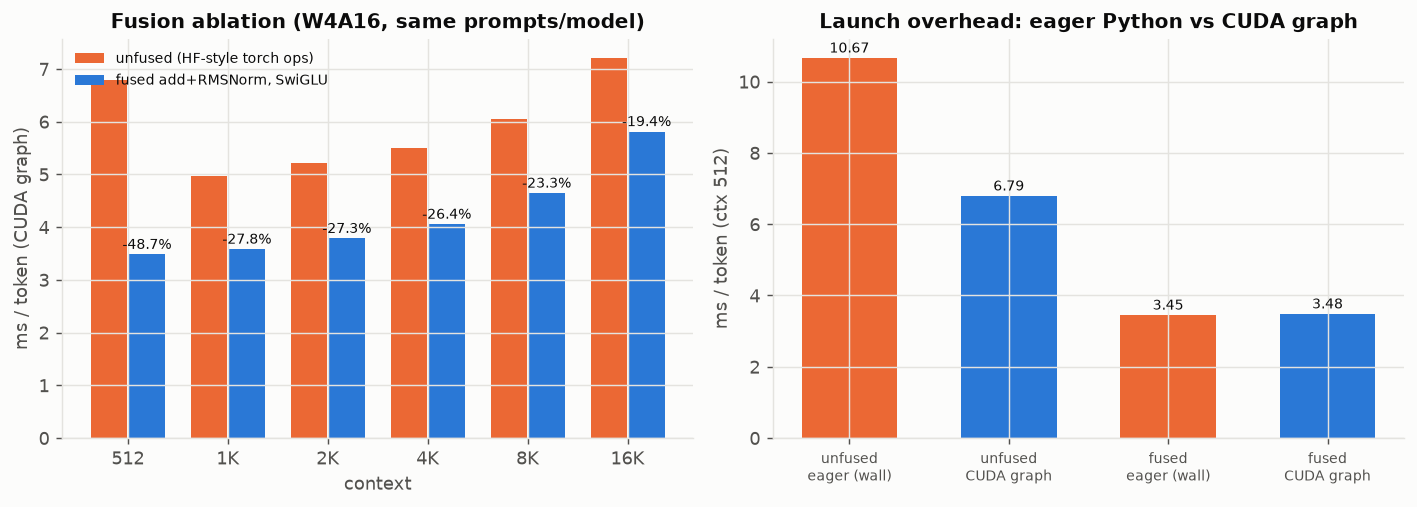
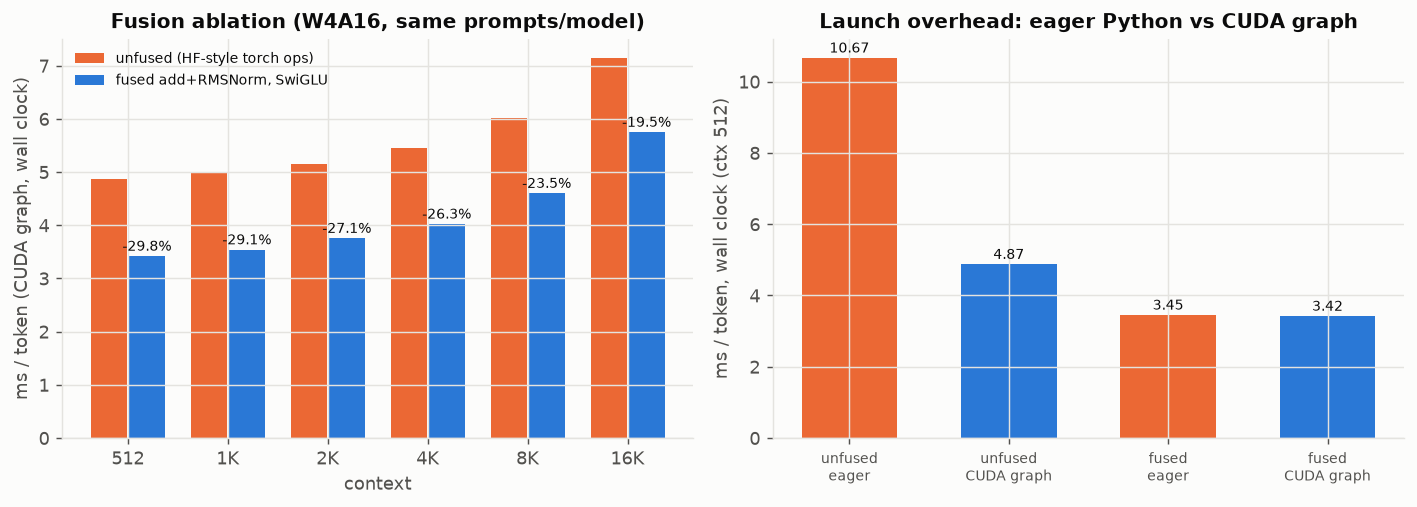
Fusion/graph plot wall-to-wall in both panels; RESULTS quotes both profile and wall numbers

diff --git a/scripts/plot_all.py b/scripts/plot_all.py
@@ -184,27 +184,30 @@ def plot_fusion(r):
     ctxs = [x["ctx"] for x in sp["rt_int4_g128"]]
     fig, (a1, a2) = plt.subplots(1, 2, figsize=(11, 4))
     w = 0.38
-    fu = [x["median_us"] / 1e3 for x in sp["rt_int4_g128"]]
-    un = [next(y["median_us"] for y in sp["rt_int4_g128_unfused"] if y["ctx"] == c) / 1e3 for c in ctxs]
+    # wall clock in both panels: the event-timed median of a throttled loop can sit far from its wall time (e2efinal
+    # unfused@512: 6.79 ms median vs 4.87 ms wall), and eager can only be compared to graph wall-to-wall
+    wall = lambda x: x.get("wall_us", x["median_us"]) / 1e3
+    fu = [wall(x) for x in sp["rt_int4_g128"]]
+    un = [wall(next(y for y in sp["rt_int4_g128_unfused"] if y["ctx"] == c)) for c in ctxs]
     xs = np.arange(len(ctxs))
     a1.bar(xs - w / 2, un, w * 0.95, color=C[1], label="unfused (HF-style torch ops)")
     a1.bar(xs + w / 2, fu, w * 0.95, color=C[0], label="fused add+RMSNorm, SwiGLU")
     for i in range(len(ctxs)):
         a1.annotate(f"-{100 * (1 - fu[i] / un[i]):.1f}%", (xs[i] + w / 2, fu[i]), xytext=(0, 3), textcoords="offset points", ha="center", fontsize=8)
     a1.set_xticks(xs); a1.set_xticklabels([ctx_label(c) for c in ctxs]); a1.set_xlabel("context")
-    a1.set_ylabel("ms / token (CUDA graph)"); a1.set_title("Fusion ablation (W4A16, same prompts/model)"); a1.legend(fontsize=8, loc="upper left")
+    a1.set_ylabel("ms / token (CUDA graph, wall clock)"); a1.set_title("Fusion ablation (W4A16, same prompts/model)"); a1.legend(fontsize=8, loc="upper left")
     labels, vals, cols = [], [], []
     for name, lab in (("rt_int4_g128_unfused", "unfused"), ("rt_int4_g128", "fused")):
         for x in sp[name]:
             if x["ctx"] == 512 and "eager" in x:
-                labels += [f"{lab}\neager (wall)", f"{lab}\nCUDA graph"]
-                vals += [x["eager"]["wall_us"] / 1e3, x["median_us"] / 1e3]
+                labels += [f"{lab}\neager", f"{lab}\nCUDA graph"]
+                vals += [x["eager"]["wall_us"] / 1e3, wall(x)]
                 cols += [C[1], C[0]]
     a2.bar(range(len(vals)), vals, 0.6, color=cols)
     for i, v in enumerate(vals):
         a2.annotate(f"{v:.2f}", (i, v), xytext=(0, 3), textcoords="offset points", ha="center", fontsize=8)
     a2.set_xticks(range(len(vals))); a2.set_xticklabels(labels, fontsize=8)
-    a2.set_ylabel("ms / token (ctx 512)"); a2.set_title("Launch overhead: eager Python vs CUDA graph")
+    a2.set_ylabel("ms / token, wall clock (ctx 512)"); a2.set_title("Launch overhead: eager Python vs CUDA graph")
     save(fig, "fusion_ablation.png")
 
 

diff --git a/RESULTS.md b/RESULTS.md
@@ -237,7 +237,7 @@ clean for all three (1575–1590 MHz). For absolute v1/v2 numbers at full clock 
 
 **Fusion ablation** (fused residual-add + RMSNorm, fused SiLU·mul vs the same runtime with HF-style torch ops; profiled
 graph-replay step span, `e2efinal`): 225 vs 716 kernels per token, **3.30 vs 4.99 ms at 512 (−34 %), 5.11 vs 6.65 ms at
-16K (−23 %)**. The unfused path spends ~1.5 ms per token in elementwise and reduction kernels and 0.5 ms idle between
+16K (−23 %)**; in the timed loop's wall clock (the plot) −30 % at 512 and −19.5 % at 16K. The unfused path spends ~1.5 ms per token in elementwise and reduction kernels and 0.5 ms idle between
 its 716 launches.
 
 **CUDA graphs vs eager** (wall clock per token for both, same job): the fused runtime is within noise (**3.42 ms graph vs
